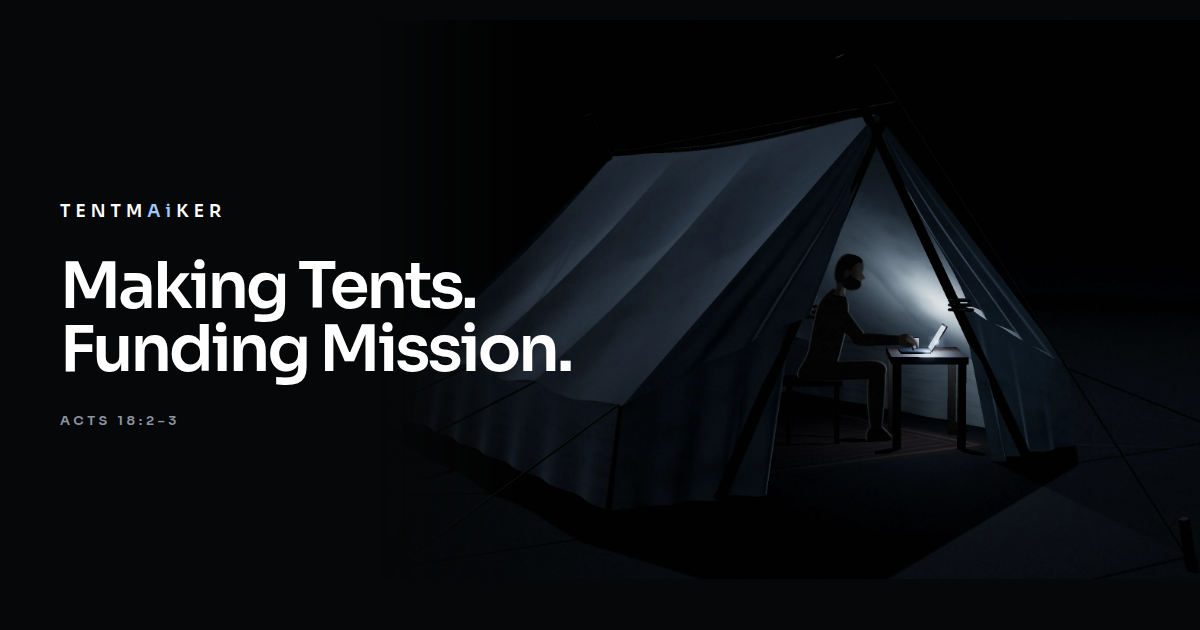
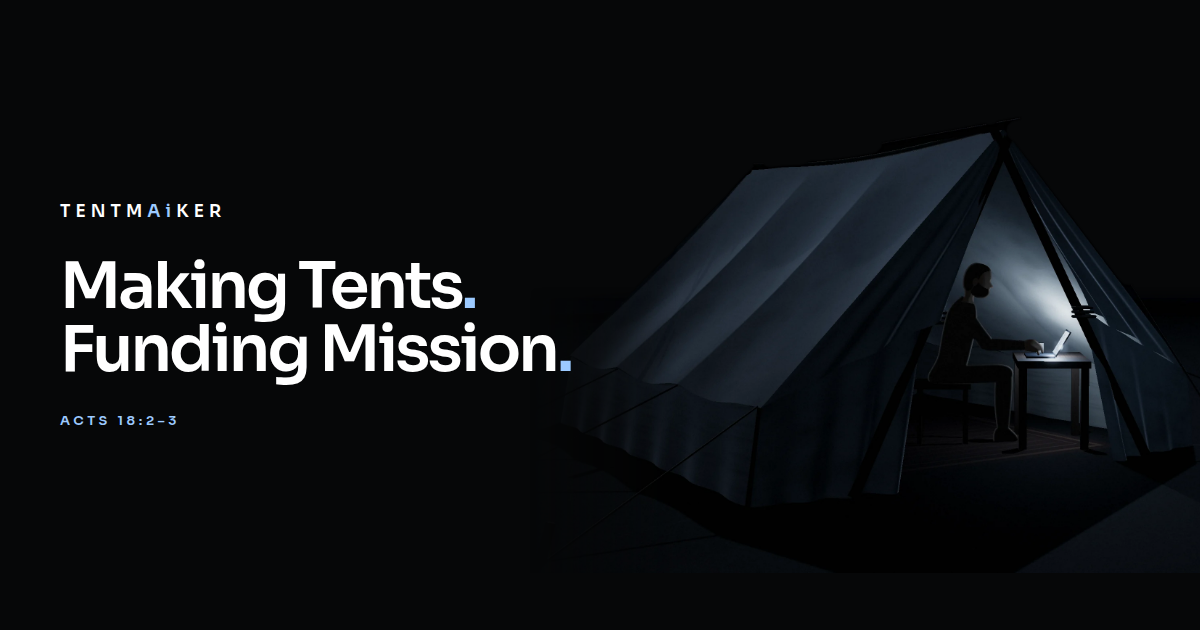
Set the headline's periods and the verse in the AI's blue
The two periods in "Making Tents. Funding Mission." and the Acts 18:2-3
reference now take the same cool blue as the Ai in the wordmark. The link
preview card matches, with the tent moved clear of the words.

Claude-Session: https://claude.ai/code/session_01A8mnoQrzTJAvQKhF96HvHe

diff --git a/app/tentmaiker/tentmaiker.css b/app/tentmaiker/tentmaiker.css
@@ -9,7 +9,6 @@
 .tm {
   --tm-black: #040506;
   --tm-white: #ffffff;
-  --tm-silver: #8b95a1;
   --tm-light: #9ccaff;
   --tm-font: var(--font-tm), "Helvetica Neue", Arial, sans-serif;
   --tm-pad-x: clamp(22px, 4vw, 56px);
@@ -136,9 +135,14 @@ html:has(.tm) body {
   white-space: nowrap;
 }
 
+/* The periods and the verse take the AI's blue: the same light throughout. */
+.tm-dot {
+  color: var(--tm-light);
+}
+
 .tm-ref {
   margin-top: clamp(26px, 3.2vw, 44px);
-  color: var(--tm-silver);
+  color: var(--tm-light);
   font-size: 0.75rem;
   font-weight: 600;
   letter-spacing: 0.28em;

diff --git a/app/tentmaiker/page.tsx b/app/tentmaiker/page.tsx
@@ -78,7 +78,12 @@ export default function TentMaikerPage() {
       <div className="tm-hero">
         <div className="tm-words">
           <h1 className="tm-line">
-            <span>Making Tents.</span> <span>Funding Mission.</span>
+            <span>
+              Making Tents<span className="tm-dot">.</span>
+            </span>{" "}
+            <span>
+              Funding Mission<span className="tm-dot">.</span>
+            </span>
           </h1>
           <p className="tm-ref">Acts 18:2&ndash;3</p>
         </div>
